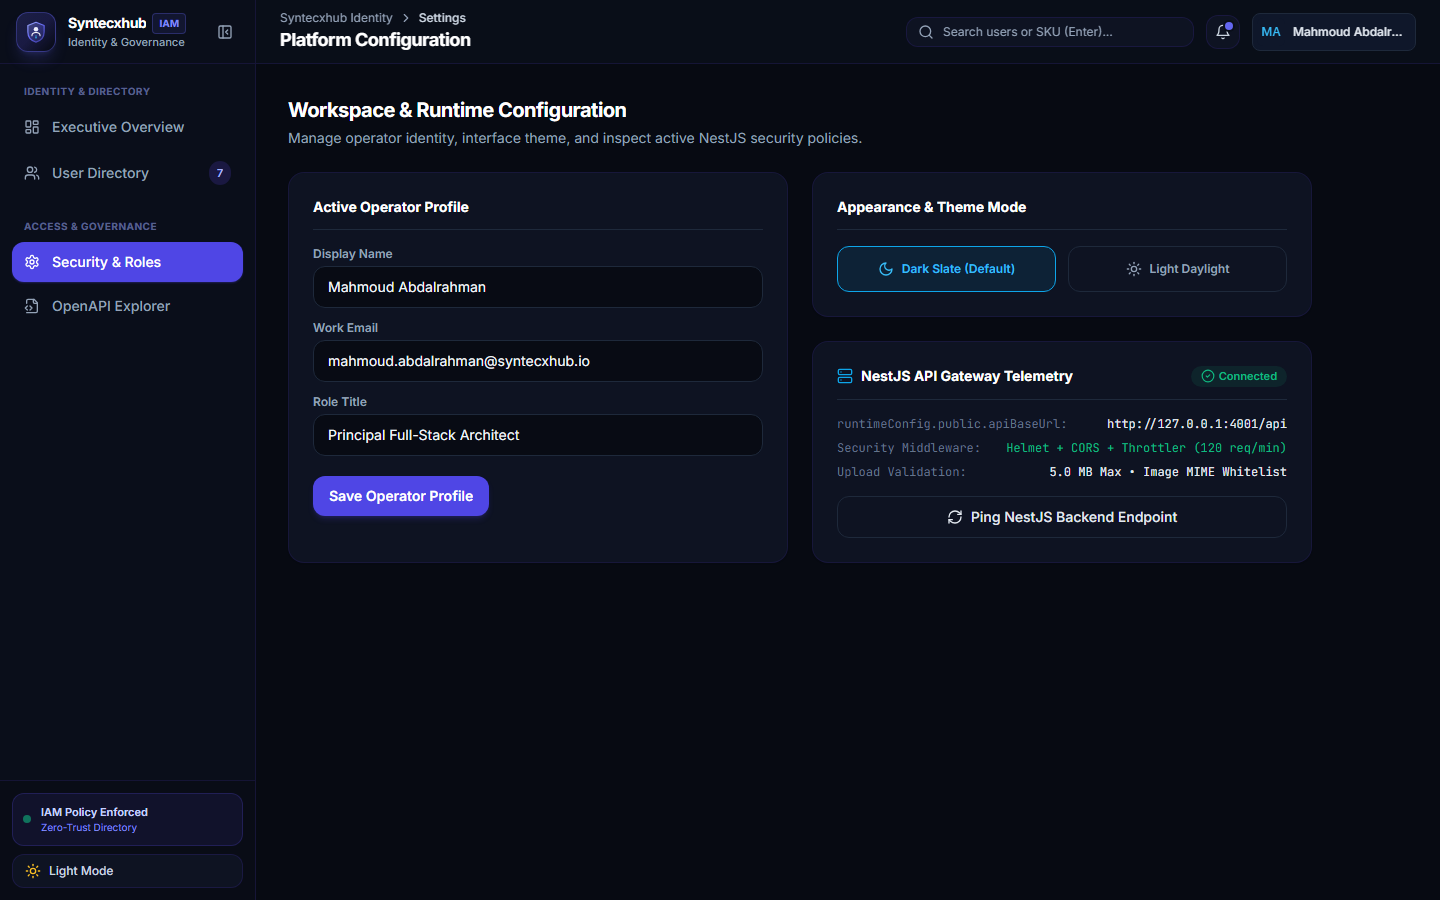
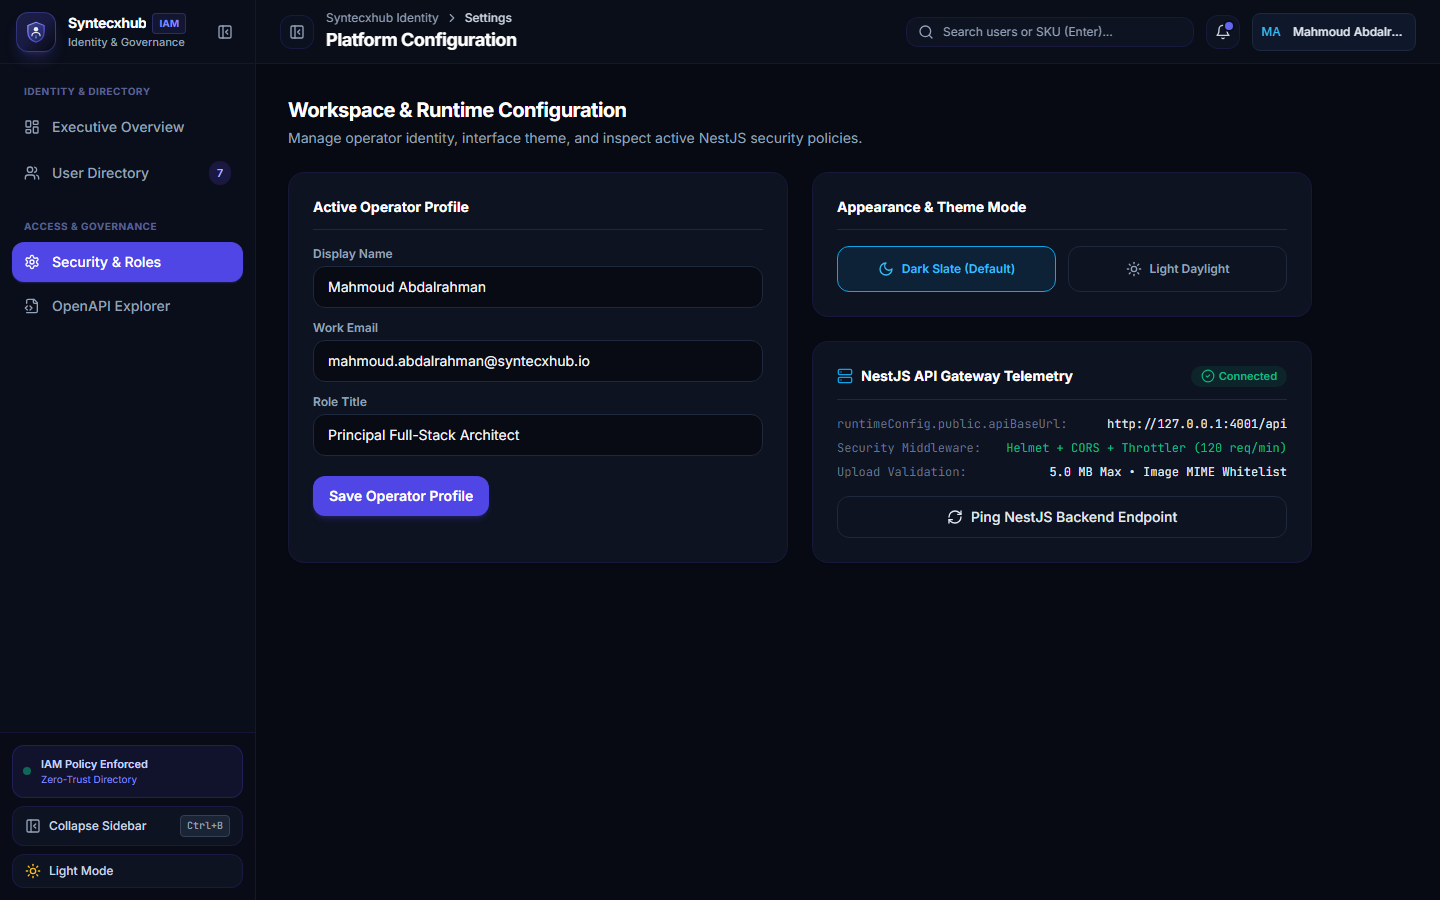
fix(ui): polish collapsed sidebar rail toggle, topbar toggle button, and verify custom select dropdown

Changed region(s): [[0.1875, 0.0, 0.375, 0.0622], [0.0, 0.84, 0.0938, 0.9333], [0.125, 0.9022, 0.1562, 0.9333]]

diff --git a/frontend/app/components/layout/AppSidebar.vue b/frontend/app/components/layout/AppSidebar.vue
@@ -63,11 +63,12 @@ const toggleTheme = () => {
     <!-- Brand Header -->
     <div
       class="flex h-16 items-center border-b border-slate-200/90 dark:border-indigo-950/60 transition-all duration-200"
-      :class="uiStore.sidebarCollapsed ? 'justify-center px-2 relative' : 'justify-between px-4'"
+      :class="uiStore.sidebarCollapsed ? 'justify-center px-2' : 'justify-between px-4'"
     >
       <NuxtLink
         to="/"
-        class="flex items-center gap-3 min-w-0"
+        class="flex items-center min-w-0"
+        :class="uiStore.sidebarCollapsed ? 'justify-center' : 'gap-3'"
         :title="uiStore.sidebarCollapsed ? 'Syntecxhub IAM' : undefined"
       >
         <BrandProjectLogo :size="'md'" />
@@ -86,20 +87,16 @@ const toggleTheme = () => {
         </div>
       </NuxtLink>
 
-      <!-- Desktop Toggle Button -->
+      <!-- Desktop Collapse Button (Expanded State) -->
       <button
+        v-if="!uiStore.sidebarCollapsed"
         type="button"
-        class="hidden lg:inline-flex rounded-lg text-slate-400 hover:bg-slate-100 dark:hover:bg-indigo-950/60 transition-all cursor-pointer"
-        :class="
-          uiStore.sidebarCollapsed
-            ? 'absolute -right-3 top-5 z-50 h-6 w-6 rounded-full border border-slate-200 dark:border-indigo-900/80 bg-white dark:bg-[#0F162A] shadow-md p-0 items-center justify-center text-slate-400 hover:text-white'
-            : 'p-1.5'
-        "
-        :title="uiStore.sidebarCollapsed ? 'Expand Sidebar' : 'Collapse Sidebar'"
+        class="hidden lg:inline-flex rounded-lg p-1.5 text-slate-400 hover:text-slate-900 dark:hover:text-white hover:bg-slate-100 dark:hover:bg-indigo-950/60 transition-all cursor-pointer"
+        title="Collapse Sidebar (Ctrl+B)"
+        aria-label="Collapse Sidebar"
         @click="uiStore.toggleSidebar"
       >
-        <PanelLeftOpen v-if="uiStore.sidebarCollapsed" class="h-3.5 w-3.5" />
-        <PanelLeftClose v-else class="h-4 w-4" />
+        <PanelLeftClose class="h-4 w-4" />
       </button>
 
       <!-- Mobile Close Button -->
@@ -153,6 +150,27 @@ const toggleTheme = () => {
           <p class="text-[10px] text-indigo-600 dark:text-indigo-400">Zero-Trust Directory</p>
         </div>
       </div>
+
+      <!-- Rail Expand / Collapse Toggle -->
+      <button
+        type="button"
+        class="flex items-center rounded-xl border border-slate-200 dark:border-indigo-950/80 bg-white dark:bg-[#0E1322] font-medium text-slate-700 dark:text-slate-300 hover:border-indigo-400 hover:text-indigo-400 transition-colors cursor-pointer"
+        :class="
+          uiStore.sidebarCollapsed
+            ? 'w-12 h-10 mx-auto justify-center px-0'
+            : 'w-full justify-between px-3 py-2 text-xs'
+        "
+        :title="uiStore.sidebarCollapsed ? 'Expand Sidebar (Ctrl+B)' : 'Collapse Sidebar (Ctrl+B)'"
+        aria-label="Toggle Sidebar Rail"
+        @click="uiStore.toggleSidebar"
+      >
+        <span class="flex items-center gap-2">
+          <PanelLeftOpen v-if="uiStore.sidebarCollapsed" class="h-4 w-4 text-indigo-400 shrink-0" />
+          <PanelLeftClose v-else class="h-4 w-4 shrink-0 text-slate-400" />
+          <span v-if="!uiStore.sidebarCollapsed">Collapse Sidebar</span>
+        </span>
+        <kbd v-if="!uiStore.sidebarCollapsed" class="hidden sm:inline font-mono text-[10px] text-slate-400 bg-slate-100 dark:bg-slate-800/80 px-1.5 py-0.5 rounded border border-slate-200 dark:border-slate-700">Ctrl+B</kbd>
+      </button>
 
       <button
         type="button"

diff --git a/frontend/app/components/layout/AppTopbar.vue b/frontend/app/components/layout/AppTopbar.vue
@@ -3,6 +3,8 @@ import {
   Bell,
   ChevronRight,
   Menu,
+  PanelLeftClose,
+  PanelLeftOpen,
   Search,
   UserCheck,
   ExternalLink,
@@ -63,14 +65,26 @@ const handleQuickSearch = () => {
     usersStore.fetchUsers();
   }
 };
+
+onMounted(() => {
+  const onKey = (e: KeyboardEvent) => {
+    if ((e.ctrlKey || e.metaKey) && e.key.toLowerCase() === 'b') {
+      e.preventDefault();
+      uiStore.toggleSidebar();
+    }
+  };
+  window.addEventListener('keydown', onKey);
+  onUnmounted(() => window.removeEventListener('keydown', onKey));
+});
 </script>
 
 <template>
   <header
     class="sticky top-0 z-30 flex h-16 items-center justify-between gap-4 border-b border-slate-200/90 dark:border-indigo-950/60 bg-white/90 dark:bg-[#0A0E1A]/90 px-4 sm:px-6 backdrop-blur-md"
   >
-    <!-- Left: Mobile Menu & Breadcrumbs -->
+    <!-- Left: Mobile Menu, Desktop Sidebar Toggle & Breadcrumbs -->
     <div class="flex items-center gap-3 min-w-0">
+      <!-- Mobile Menu Button -->
       <button
         type="button"
         class="lg:hidden rounded-lg border border-slate-200 dark:border-slate-800 p-2 text-slate-600 dark:text-slate-300 hover:bg-slate-100 dark:hover:bg-slate-800"
@@ -78,6 +92,18 @@ const handleQuickSearch = () => {
         @click="uiStore.openMobileSidebar"
       >
         <Menu class="h-4 w-4" />
+      </button>
+
+      <!-- Desktop Sidebar Toggle Button -->
+      <button
+        type="button"
+        class="hidden lg:inline-flex items-center justify-center rounded-xl border border-slate-200/90 dark:border-indigo-950/80 bg-white/70 dark:bg-[#0E1322]/80 p-2 text-slate-500 dark:text-slate-400 hover:text-indigo-400 hover:border-indigo-500/50 hover:bg-indigo-50/50 dark:hover:bg-indigo-950/40 transition-all cursor-pointer shadow-xs"
+        :title="uiStore.sidebarCollapsed ? 'Expand Sidebar (Ctrl+B)' : 'Collapse Sidebar (Ctrl+B)'"
+        aria-label="Toggle Sidebar Navigation"
+        @click="uiStore.toggleSidebar"
+      >
+        <PanelLeftOpen v-if="uiStore.sidebarCollapsed" class="h-4 w-4 text-indigo-400" />
+        <PanelLeftClose v-else class="h-4 w-4" />
       </button>
 
       <div class="min-w-0">

diff --git a/frontend/e2e/user-management.spec.ts b/frontend/e2e/user-management.spec.ts
@@ -116,4 +116,56 @@ test.describe('Syntecxhub Project 1 — User Management System', () => {
       fullPage: true,
     });
   });
+
+  test('06 - Custom select dropdown displays theme-styled popover and active options', async ({ page }) => {
+    await page.goto('/users');
+    await page.waitForLoadState('networkidle');
+
+    // Click on custom select dropdown for Role
+    const selectTrigger = page.locator('button:has-text("All Roles")');
+    await expect(selectTrigger).toBeVisible();
+    await selectTrigger.click();
+    await page.waitForTimeout(300);
+
+    // Verify popover options list is visible
+    const adminOption = page.locator('button:has-text("Admin")');
+    await expect(adminOption).toBeVisible();
+
+    // Capture screenshot with dropdown open
+    await page.screenshot({
+      path: path.join(screenshotsDir, '06-custom-select-dropdown-open.png'),
+    });
+
+    // Select Admin option
+    await adminOption.click();
+    await page.waitForTimeout(300);
+    await expect(page.locator('button:has-text("Admin")')).toBeVisible();
+  });
+
+  test('07 - Sidebar collapse & expand via Topbar and bottom rail toggle', async ({ page }) => {
+    await page.goto('/users');
+    await page.waitForLoadState('networkidle');
+
+    // Collapse via Topbar toggle button
+    const topbarToggle = page.locator('header button[aria-label="Toggle Sidebar Navigation"]');
+    await expect(topbarToggle).toBeVisible();
+    await topbarToggle.click();
+    await page.waitForTimeout(400);
+
+    // Verify sidebar is collapsed (w-20 class present on aside)
+    const aside = page.locator('aside');
+    await expect(aside).toHaveClass(/w-20/);
+
+    // Capture screenshot of shrunk sidebar
+    await page.screenshot({
+      path: path.join(screenshotsDir, '07-shrunk-sidebar.png'),
+    });
+
+    // Re-expand via rail toggle button at bottom
+    const railToggle = page.locator('aside button[aria-label="Toggle Sidebar Rail"]');
+    await expect(railToggle).toBeVisible();
+    await railToggle.click();
+    await page.waitForTimeout(400);
+    await expect(aside).toHaveClass(/w-64/);
+  });
 });
